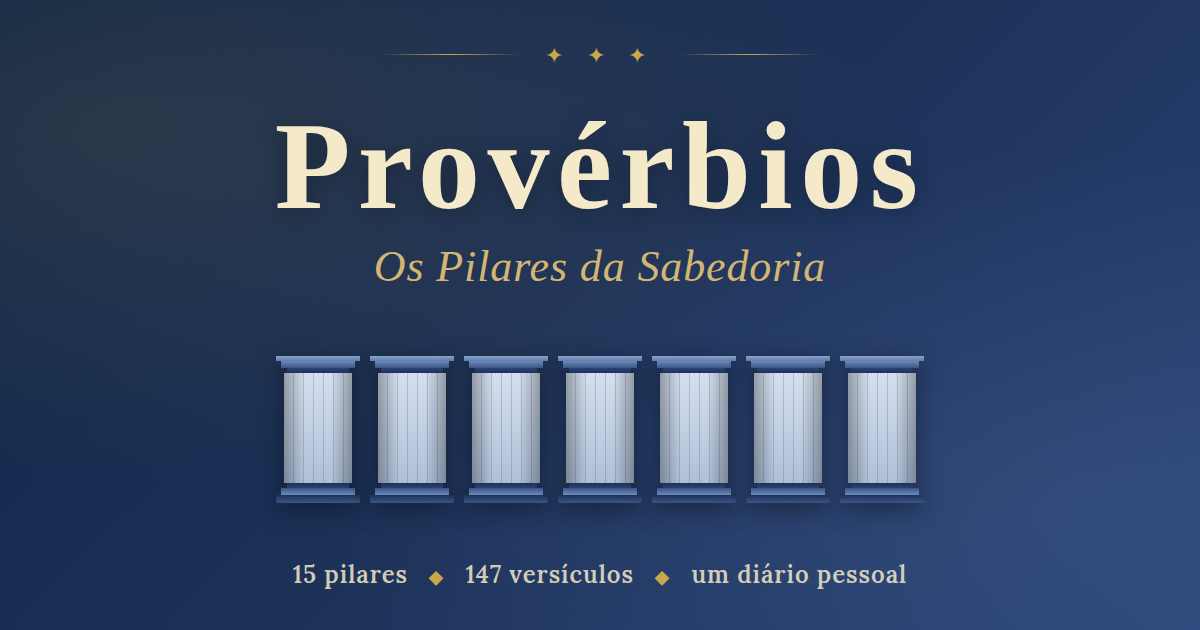
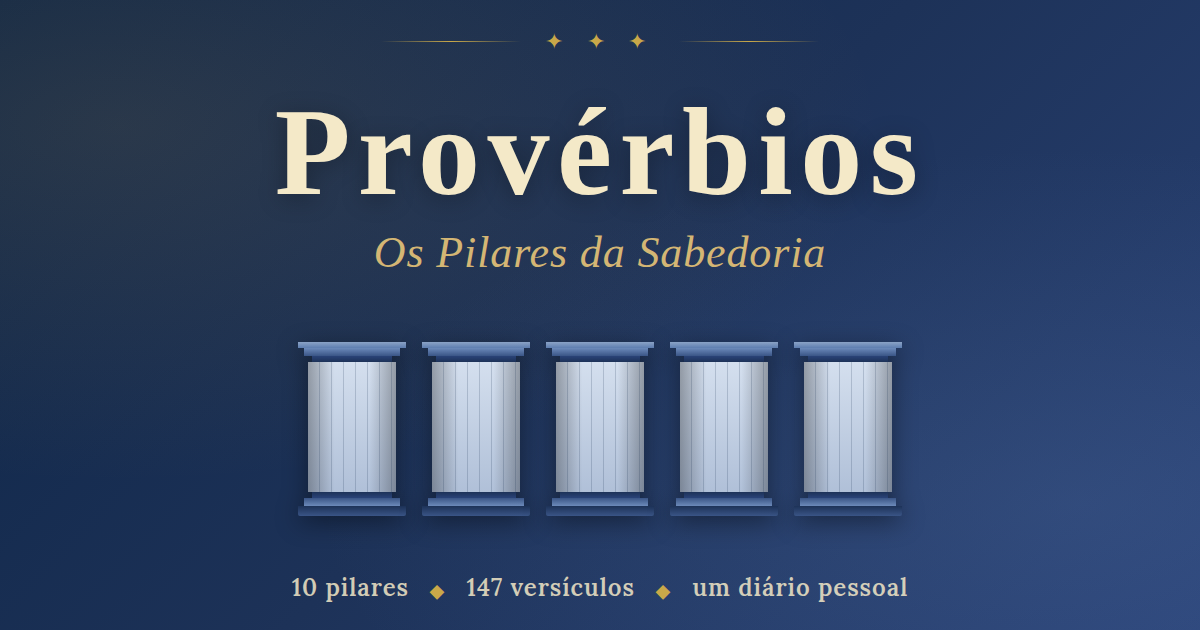
Add files via upload

diff --git a/index.html b/index.html
@@ -363,15 +363,12 @@
   /* ═══════════════ PILLARS GRID ═══════════════ */
   .pillars-grid {
     display: grid;
-    grid-template-columns: repeat(3, 1fr);
-    gap: 14px;
+    grid-template-columns: repeat(2, 1fr);
+    gap: 16px;
     padding: 6px 0;
   }
 
   @media (min-width: 540px) {
-    .pillars-grid { grid-template-columns: repeat(4, 1fr); gap: 16px; }
-  }
-  @media (min-width: 720px) {
     .pillars-grid { grid-template-columns: repeat(5, 1fr); gap: 18px; }
   }
 
@@ -984,7 +981,7 @@
 
   <section class="tab-content" id="tab-pillars">
     <div class="section-head">
-      <h2>Os Quinze Pilares</h2>
+      <h2>Os Dez Pilares</h2>
       <p>toque em uma coluna para ler os versículos</p>
     </div>
     <div class="pillars-grid" id="pillarsGrid"></div>
@@ -1046,7 +1043,7 @@
 
 <script>
 /* ════════════════════════════════════════════════
-   DATA — 15 PILLARS, EACH WITH VERSES + NT ECHO
+   DATA — 10 PILLARS (CONSOLIDATED), WITH VERSES + NT ECHO
    ════════════════════════════════════════════════ */
 const PILLARS = [
   {
@@ -1114,7 +1111,33 @@ const PILLARS = [
     ]
   },
   {
-    id: 'filhos', numeral: 'IV',
+    id: 'casamento', numeral: 'IV',
+    name: 'Casamento',
+    full: 'Casamento e Fidelidade',
+    subtitle: 'sobre o pacto conjugal e a pureza',
+    color: '#a64453',
+    verses: [
+      { ref: 'Pv 5:3-4', text: 'Porque os lábios da mulher estranha destilam favos de mel, e o seu paladar é mais macio do que o azeite. Porém o seu fim é amargoso como o absinto, agudo como a espada de dois fios.', nt: '1 Co 6:18' },
+      { ref: 'Pv 5:8',   text: 'Afasta dela o teu caminho, e não te chegues à porta da sua casa.', nt: '2 Tm 2:22' },
+      { ref: 'Pv 5:18-19', text: 'Seja bendito o teu manancial, e alegra-te com a mulher da tua mocidade. Como cerva amorosa e gazela graciosa, saciem-te os seus seios em todo o tempo; e pelo seu amor sê atraído perpetuamente.', nt: 'Hb 13:4' },
+      { ref: 'Pv 5:21',  text: 'Pois os caminhos do homem estão perante os olhos do Senhor, e ele pesa todas as suas veredas.', nt: 'Hb 4:13' },
+      { ref: 'Pv 6:25',  text: 'Não cobices no teu coração a sua formosura, nem te prendas com os seus olhos.', nt: 'Mt 5:27-28' },
+      { ref: 'Pv 6:27-28', text: 'Porventura tomará alguém fogo no seu seio, sem que suas vestes se queimem? Ou andará alguém sobre as brasas, sem que se queimem os seus pés?', nt: '1 Co 6:18' },
+      { ref: 'Pv 6:32',  text: 'O que adultera com uma mulher é falto de entendimento; destrói a sua alma, o que tal faz.', nt: '1 Co 6:9-10' },
+      { ref: 'Pv 7:25-27', text: 'Não se desvie para os seus caminhos o teu coração, e não andes perdido nas suas veredas. Porque a muitos feridos derrubou; e são muitíssimos os que por ela foram mortos. Caminho do inferno é a sua casa; o qual desce às câmaras da morte.', nt: '1 Pe 5:8' },
+      { ref: 'Pv 12:4',  text: 'A mulher virtuosa é a coroa do seu marido, mas a que o envergonha é como apodrecimento nos seus ossos.', nt: '1 Co 11:7' },
+      { ref: 'Pv 18:22', text: 'O que acha uma mulher acha o bem, e alcança a benevolência do Senhor.', nt: 'Ef 5:25' },
+      { ref: 'Pv 19:14', text: 'A casa e os bens são herança dos pais; mas do Senhor vem a esposa prudente.', nt: '1 Pe 3:1-2' },
+      { ref: 'Pv 21:9',  text: 'Melhor é morar num canto do eirado, do que com a mulher rixosa, e isso em casa em que mais companhia haja.' },
+      { ref: 'Pv 27:15-16', text: 'O gotejar contínuo no dia de grande chuva, e a mulher rixosa são semelhantes. Tentar detê-la é como deter o vento, ou agarrar azeite com a mão direita.' },
+      { ref: 'Pv 31:10', text: 'Mulher virtuosa, quem a achará? O seu valor muito excede ao de rubins.', nt: '1 Pe 3:3-4' },
+      { ref: 'Pv 31:11', text: 'O coração do seu marido está nela confiado; assim ele não necessitará de despojo.', nt: 'Tt 2:4-5' },
+      { ref: 'Pv 31:28', text: 'Levantam-se seus filhos e chamam-lhe bem-aventurada; seu marido também, e ele a louva.' },
+      { ref: 'Pv 31:30', text: 'Enganosa é a graça, e vã a formosura, mas a mulher que teme ao Senhor essa será louvada.', nt: '1 Pe 3:3-4' }
+    ]
+  },
+  {
+    id: 'filhos', numeral: 'V',
     name: 'Filhos',
     full: 'Filhos, Educação e Disciplina',
     subtitle: 'sobre criar e instruir os pequenos',
@@ -1133,38 +1156,24 @@ const PILLARS = [
     ]
   },
   {
-    id: 'casamento', numeral: 'V',
-    name: 'Casamento',
-    full: 'Casamento e Mulher Virtuosa',
-    subtitle: 'sobre o pacto entre marido e esposa',
-    color: '#a64453',
+    id: 'lingua', numeral: 'VI',
+    name: 'Língua',
+    full: 'A Língua e o Poder das Palavras',
+    subtitle: 'sobre falar, calar e escutar',
+    color: '#1f4d7a',
     verses: [
-      { ref: 'Pv 5:18-19', text: 'Seja bendito o teu manancial, e alegra-te com a mulher da tua mocidade. Como cerva amorosa e gazela graciosa, saciem-te os seus seios em todo o tempo; e pelo seu amor sê atraído perpetuamente.', nt: 'Hb 13:4' },
-      { ref: 'Pv 12:4',  text: 'A mulher virtuosa é a coroa do seu marido, mas a que o envergonha é como apodrecimento nos seus ossos.', nt: '1 Co 11:7' },
-      { ref: 'Pv 18:22', text: 'O que acha uma mulher acha o bem, e alcança a benevolência do Senhor.', nt: 'Ef 5:25' },
-      { ref: 'Pv 19:14', text: 'A casa e os bens são herança dos pais; mas do Senhor vem a esposa prudente.', nt: '1 Pe 3:1-2' },
-      { ref: 'Pv 21:9',  text: 'Melhor é morar num canto do eirado, do que com a mulher rixosa, e isso em casa em que mais companhia haja.' },
-      { ref: 'Pv 27:15-16', text: 'O gotejar contínuo no dia de grande chuva, e a mulher rixosa são semelhantes. Tentar detê-la é como deter o vento, ou agarrar azeite com a mão direita.' },
-      { ref: 'Pv 31:10', text: 'Mulher virtuosa, quem a achará? O seu valor muito excede ao de rubins.', nt: '1 Pe 3:3-4' },
-      { ref: 'Pv 31:11', text: 'O coração do seu marido está nela confiado; assim ele não necessitará de despojo.', nt: 'Tt 2:4-5' },
-      { ref: 'Pv 31:28', text: 'Levantam-se seus filhos e chamam-lhe bem-aventurada; seu marido também, e ele a louva.' },
-      { ref: 'Pv 31:30', text: 'Enganosa é a graça, e vã a formosura, mas a mulher que teme ao Senhor essa será louvada.', nt: '1 Pe 3:3-4' }
-    ]
-  },
-  {
-    id: 'pureza', numeral: 'VI',
-    name: 'Pureza',
-    full: 'Pureza Sexual',
-    subtitle: 'sobre evitar o adultério e a sedução',
-    color: '#5d2670',
-    verses: [
-      { ref: 'Pv 5:3-4', text: 'Porque os lábios da mulher estranha destilam favos de mel, e o seu paladar é mais macio do que o azeite. Porém o seu fim é amargoso como o absinto, agudo como a espada de dois fios.', nt: '1 Co 6:18' },
-      { ref: 'Pv 5:8',   text: 'Afasta dela o teu caminho, e não te chegues à porta da sua casa.', nt: '2 Tm 2:22' },
-      { ref: 'Pv 5:21',  text: 'Pois os caminhos do homem estão perante os olhos do Senhor, e ele pesa todas as suas veredas.', nt: 'Hb 4:13' },
-      { ref: 'Pv 6:25',  text: 'Não cobices no teu coração a sua formosura, nem te prendas com os seus olhos.', nt: 'Mt 5:27-28' },
-      { ref: 'Pv 6:27-28', text: 'Porventura tomará alguém fogo no seu seio, sem que suas vestes se queimem? Ou andará alguém sobre as brasas, sem que se queimem os seus pés?', nt: '1 Co 6:18' },
-      { ref: 'Pv 6:32',  text: 'O que adultera com uma mulher é falto de entendimento; destrói a sua alma, o que tal faz.', nt: '1 Co 6:9-10' },
-      { ref: 'Pv 7:25-27', text: 'Não se desvie para os seus caminhos o teu coração, e não andes perdido nas suas veredas. Porque a muitos feridos derrubou; e são muitíssimos os que por ela foram mortos. Caminho do inferno é a sua casa; o qual desce às câmaras da morte.', nt: '1 Pe 5:8' }
+      { ref: 'Pv 10:19', text: 'Na multidão de palavras não falta transgressão, mas o que modera os seus lábios é prudente.', nt: 'Tg 3:2' },
+      { ref: 'Pv 11:13', text: 'O que anda mexericando descobre o segredo, mas o fiel de espírito encobre o negócio.', nt: '1 Tm 5:13' },
+      { ref: 'Pv 12:18', text: 'Há alguns que falam palavras como pontas de espada, mas a língua dos sábios é saúde.', nt: 'Tg 3:5-6' },
+      { ref: 'Pv 15:1',  text: 'A resposta branda desvia o furor, mas a palavra dura suscita a ira.', nt: 'Tg 1:19-20' },
+      { ref: 'Pv 15:23', text: 'O homem alegra-se na resposta da sua boca, e a palavra a seu tempo, quão boa é!', nt: 'Cl 4:6' },
+      { ref: 'Pv 16:24', text: 'Palavras suaves são como favos de mel, doces para a alma, e saúde para os ossos.', nt: 'Ef 4:29' },
+      { ref: 'Pv 17:27', text: 'O que possui o conhecimento poupa as suas palavras, e o homem de entendimento é de precioso espírito.', nt: 'Tg 1:19' },
+      { ref: 'Pv 17:28', text: 'Até o tolo, quando se cala, será reputado por sábio; e o que cerrar os seus lábios por entendido.', nt: 'Tg 3:13' },
+      { ref: 'Pv 18:13', text: 'O que responde antes de ouvir, comete estultícia e vergonha.', nt: 'Tg 1:19' },
+      { ref: 'Pv 18:21', text: 'A morte e a vida estão no poder da língua; e aquele que a ama comerá do seu fruto.', nt: 'Mt 12:36-37' },
+      { ref: 'Pv 25:11', text: 'Como maçãs de ouro em salvas de prata, assim é a palavra dita a seu tempo.', nt: 'Cl 4:6' },
+      { ref: 'Pv 26:20', text: 'Sem lenha, o fogo se apagará; e não havendo intrigante, cessará a contenda.', nt: 'Tg 3:5-6' }
     ]
   },
   {
@@ -1186,71 +1195,56 @@ const PILLARS = [
     ]
   },
   {
-    id: 'lingua', numeral: 'VIII',
-    name: 'Língua',
-    full: 'A Língua e o Poder das Palavras',
-    subtitle: 'sobre falar, calar e escutar',
-    color: '#1f4d7a',
-    verses: [
-      { ref: 'Pv 10:19', text: 'Na multidão de palavras não falta transgressão, mas o que modera os seus lábios é prudente.', nt: 'Tg 3:2' },
-      { ref: 'Pv 11:13', text: 'O que anda mexericando descobre o segredo, mas o fiel de espírito encobre o negócio.', nt: '1 Tm 5:13' },
-      { ref: 'Pv 12:18', text: 'Há alguns que falam palavras como pontas de espada, mas a língua dos sábios é saúde.', nt: 'Tg 3:5-6' },
-      { ref: 'Pv 15:1',  text: 'A resposta branda desvia o furor, mas a palavra dura suscita a ira.', nt: 'Tg 1:19-20' },
-      { ref: 'Pv 15:23', text: 'O homem alegra-se na resposta da sua boca, e a palavra a seu tempo, quão boa é!', nt: 'Cl 4:6' },
-      { ref: 'Pv 16:24', text: 'Palavras suaves são como favos de mel, doces para a alma, e saúde para os ossos.', nt: 'Ef 4:29' },
-      { ref: 'Pv 17:27', text: 'O que possui o conhecimento poupa as suas palavras, e o homem de entendimento é de precioso espírito.', nt: 'Tg 1:19' },
-      { ref: 'Pv 17:28', text: 'Até o tolo, quando se cala, será reputado por sábio; e o que cerrar os seus lábios por entendido.', nt: 'Tg 3:13' },
-      { ref: 'Pv 18:13', text: 'O que responde antes de ouvir, comete estultícia e vergonha.', nt: 'Tg 1:19' },
-      { ref: 'Pv 18:21', text: 'A morte e a vida estão no poder da língua; e aquele que a ama comerá do seu fruto.', nt: 'Mt 12:36-37' },
-      { ref: 'Pv 25:11', text: 'Como maçãs de ouro em salvas de prata, assim é a palavra dita a seu tempo.', nt: 'Cl 4:6' },
-      { ref: 'Pv 26:20', text: 'Sem lenha, o fogo se apagará; e não havendo intrigante, cessará a contenda.', nt: 'Tg 3:5-6' }
-    ]
-  },
-  {
-    id: 'humildade', numeral: 'IX',
-    name: 'Humildade',
-    full: 'Orgulho e Humildade',
-    subtitle: 'sobre a queda do altivo e a honra do humilde',
-    color: '#7a3a1f',
-    verses: [
-      { ref: 'Pv 11:2',  text: 'Em vindo a soberba, virá também a afronta; mas com os humildes está a sabedoria.', nt: '1 Pe 5:5' },
-      { ref: 'Pv 13:10', text: 'Da soberba só provém a contenda, mas com os que se aconselham se acha a sabedoria.', nt: 'Fp 2:3' },
-      { ref: 'Pv 16:5',  text: 'Abominação é ao Senhor todo o altivo de coração; ainda que ele junte mão à mão, não ficará impune.', nt: 'Lc 18:14' },
-      { ref: 'Pv 16:18', text: 'A soberba precede a ruína, e a altivez do espírito precede a queda.', nt: '1 Co 10:12' },
-      { ref: 'Pv 16:19', text: 'Melhor é ser humilde de espírito com os mansos, do que repartir o despojo com os soberbos.', nt: 'Mt 5:3' },
-      { ref: 'Pv 18:12', text: 'Antes de ser quebrantado eleva-se o coração do homem; e diante da honra vai a humildade.', nt: 'Lc 14:11' },
-      { ref: 'Pv 22:4',  text: 'O galardão da humildade e o temor do Senhor são riquezas, honra e vida.', nt: '1 Pe 5:6' },
-      { ref: 'Pv 27:2',  text: 'Louve-te outro, e não a tua boca; o estranho, e não os teus lábios.', nt: '2 Co 10:18' },
-      { ref: 'Pv 29:23', text: 'A soberba do homem o abaterá, mas o humilde de espírito obterá honra.', nt: 'Tg 4:10' }
-    ]
-  },
-  {
-    id: 'ira', numeral: 'X',
-    name: 'Ira',
-    full: 'Ira e Autocontrole',
+    id: 'dominio', numeral: 'VIII',
+    name: 'Domínio Próprio',
+    full: 'Domínio Próprio — Orgulho, Ira e Excessos',
     subtitle: 'sobre dominar o próprio espírito',
     color: '#9c2a1f',
     verses: [
+      { ref: 'Pv 11:2',  text: 'Em vindo a soberba, virá também a afronta; mas com os humildes está a sabedoria.', nt: '1 Pe 5:5' },
+      { ref: 'Pv 13:10', text: 'Da soberba só provém a contenda, mas com os que se aconselham se acha a sabedoria.', nt: 'Fp 2:3' },
       { ref: 'Pv 14:29', text: 'O longânimo é grande em entendimento, mas o de espírito impaciente assinala a sua loucura.', nt: 'Tg 1:19-20' },
       { ref: 'Pv 15:18', text: 'O homem iracundo suscita contendas, mas o longânimo apazigua a luta.', nt: 'Ef 4:26-27' },
+      { ref: 'Pv 16:5',  text: 'Abominação é ao Senhor todo o altivo de coração; ainda que ele junte mão à mão, não ficará impune.', nt: 'Lc 18:14' },
+      { ref: 'Pv 16:18', text: 'A soberba precede a ruína, e a altivez do espírito precede a queda.', nt: '1 Co 10:12' },
+      { ref: 'Pv 16:19', text: 'Melhor é ser humilde de espírito com os mansos, do que repartir o despojo com os soberbos.', nt: 'Mt 5:3' },
       { ref: 'Pv 16:32', text: 'Melhor é o longânimo do que o valente, e o que domina o seu espírito do que o que toma uma cidade.', nt: 'Gl 5:22-23' },
+      { ref: 'Pv 18:12', text: 'Antes de ser quebrantado eleva-se o coração do homem; e diante da honra vai a humildade.', nt: 'Lc 14:11' },
       { ref: 'Pv 19:11', text: 'O entendimento do homem retém a sua ira, e sua glória é passar sobre a transgressão.', nt: 'Cl 3:13' },
+      { ref: 'Pv 20:1',  text: 'O vinho é escarnecedor, a bebida forte alvoroçadora; e todo aquele que neles errar nunca será sábio.', nt: 'Ef 5:18' },
+      { ref: 'Pv 22:4',  text: 'O galardão da humildade e o temor do Senhor são riquezas, honra e vida.', nt: '1 Pe 5:6' },
+      { ref: 'Pv 23:20-21', text: 'Não estejas entre os beberrões de vinho, nem entre os comilões de carne. Porque o beberrão e o comilão empobrecerão; e a sonolência faz trazer os vestidos rotos.', nt: 'Rm 13:13' },
+      { ref: 'Pv 23:29-30', text: 'Para quem são os ais? Para quem os pesares? Para quem as pelejas? Para quem as queixas? Para quem as feridas sem causa? E para quem os olhos vermelhos? Para os que se demoram perto do vinho.', nt: '1 Co 6:10' },
+      { ref: 'Pv 23:31-32', text: 'Não olhes para o vinho quando se mostra vermelho, quando resplandece no copo e se escoa suavemente. No seu fim morderá como a cobra, e como o basilisco picará.', nt: 'Lc 21:34' },
       { ref: 'Pv 25:28', text: 'Como a cidade derribada, sem muros, assim é o homem que não pode conter o seu espírito.', nt: 'Gl 5:22-23' },
+      { ref: 'Pv 27:2',  text: 'Louve-te outro, e não a tua boca; o estranho, e não os teus lábios.', nt: '2 Co 10:18' },
       { ref: 'Pv 29:11', text: 'Todo o seu espírito profere o tolo, mas o sábio o encobre e reprime.', nt: 'Tg 1:19-20' },
-      { ref: 'Pv 29:22', text: 'O homem iracundo levanta contendas; e o furioso multiplica as transgressões.', nt: 'Ef 4:31' }
+      { ref: 'Pv 29:22', text: 'O homem iracundo levanta contendas; e o furioso multiplica as transgressões.', nt: 'Ef 4:31' },
+      { ref: 'Pv 29:23', text: 'A soberba do homem o abaterá, mas o humilde de espírito obterá honra.', nt: 'Tg 4:10' },
+      { ref: 'Pv 31:4-5', text: 'Não é dos reis, ó Lemuel, não é dos reis beber vinho, nem dos príncipes desejar bebida forte. Para que não bebam, e se esqueçam do estatuto, e pervertam o juízo de todos os aflitos.', nt: '1 Tm 3:3' }
     ]
   },
   {
-    id: 'honestidade', numeral: 'XI',
-    name: 'Honestidade',
-    full: 'Honestidade, Integridade e Justiça',
-    subtitle: 'sobre andar em sinceridade',
-    color: '#2a6b3c',
+    id: 'integridade', numeral: 'IX',
+    name: 'Integridade',
+    full: 'Integridade e Justiça',
+    subtitle: 'sobre o caráter revelado em atos',
+    color: '#4a1f7a',
     verses: [
+      { ref: 'Pv 10:3',  text: 'O Senhor não deixa ter fome a alma do justo, mas a fazenda dos ímpios rejeitará.', nt: 'Mt 6:33' },
       { ref: 'Pv 10:9',  text: 'Quem anda em sinceridade anda seguro, mas o que perverte os seus caminhos será conhecido.', nt: '2 Co 1:12' },
+      { ref: 'Pv 10:24', text: 'O temor dos ímpios virá sobre ele, mas o desejo dos justos Deus lhe cumprirá.', nt: 'Mt 5:6' },
+      { ref: 'Pv 10:28', text: 'A esperança dos justos é alegria, mas a expectação dos ímpios perecerá.', nt: 'Rm 5:5' },
       { ref: 'Pv 11:1',  text: 'Balança enganosa é abominação para o Senhor, mas o peso justo é o seu prazer.', nt: 'Tg 5:1-4' },
       { ref: 'Pv 11:3',  text: 'A sinceridade dos sinceros os guiará, mas a perversidade dos pérfidos os destruirá.', nt: '2 Co 8:21' },
+      { ref: 'Pv 11:8',  text: 'O justo é libertado da angústia, e o ímpio vem em seu lugar.', nt: '2 Pe 2:9' },
+      { ref: 'Pv 11:30', text: 'O fruto do justo é árvore de vida, e o que ganha almas sábio é.', nt: 'Tg 5:20' },
+      { ref: 'Pv 12:7',  text: 'Transtornados serão os ímpios, e não serão mais, mas a casa dos justos permanecerá.', nt: 'Mt 7:24-27' },
       { ref: 'Pv 12:22', text: 'Os lábios mentirosos são abomináveis ao Senhor, mas os que agem fielmente são o seu deleite.', nt: 'Ap 21:8' },
+      { ref: 'Pv 13:9',  text: 'A luz dos justos alegra, mas a lâmpada dos ímpios se apagará.', nt: 'Mt 5:14-16' },
+      { ref: 'Pv 14:11', text: 'A casa dos ímpios se desfará, mas a tenda dos retos florescerá.', nt: 'Mt 7:24-27' },
+      { ref: 'Pv 14:34', text: 'A justiça exalta as nações, mas o pecado é o opróbrio dos povos.', nt: 'Mt 5:13' },
+      { ref: 'Pv 15:29', text: 'Longe está o Senhor dos ímpios, mas escuta a oração dos justos.', nt: 'Tg 5:16' },
       { ref: 'Pv 16:11', text: 'O peso e a balança justos são do Senhor; obra sua são todos os pesos da bolsa.', nt: 'Lc 16:10' },
       { ref: 'Pv 19:1',  text: 'Melhor é o pobre que anda na sua sinceridade do que o perverso de lábios e tolo.', nt: '1 Tm 6:6-8' },
       { ref: 'Pv 20:7',  text: 'O justo anda na sua sinceridade; bem-aventurados serão os seus filhos depois dele.', nt: '1 Tm 3:4' },
@@ -1260,75 +1254,33 @@ const PILLARS = [
     ]
   },
   {
-    id: 'lideranca', numeral: 'XII',
-    name: 'Liderança',
-    full: 'Reis, Governo e Liderança',
-    subtitle: 'sobre quem governa sobre outros',
-    color: '#3a1f7a',
-    verses: [
-      { ref: 'Pv 8:15-16', text: 'Por mim reinam os reis e os príncipes ordenam justiça. Por mim governam os príncipes e os nobres, sim, todos os juízes da terra.', nt: 'Rm 13:1-2' },
-      { ref: 'Pv 14:28', text: 'Na multidão do povo está a magnificência do rei, mas na falta do povo a perturbação do príncipe.' },
-      { ref: 'Pv 16:10', text: 'Nos lábios do rei se acha a sentença divina; em juízo não prevaricará a sua boca.', nt: 'Rm 13:1' },
-      { ref: 'Pv 16:12', text: 'Abominação é para os reis cometerem impiedade, porque com justiça se estabelece o trono.', nt: '1 Tm 2:1-2' },
-      { ref: 'Pv 20:28', text: 'Misericórdia e verdade guardam ao rei, e com piedade sustém ele o seu trono.', nt: '1 Pe 2:13-14' },
-      { ref: 'Pv 21:1',  text: 'Como ribeiros de águas, assim é o coração do rei na mão do Senhor; ele o inclina a todo o querer.', nt: 'Rm 13:1' },
-      { ref: 'Pv 25:2',  text: 'A glória de Deus é encobrir o negócio; mas a glória dos reis é esquadrinhá-lo.' },
-      { ref: 'Pv 29:2',  text: 'Quando os justos se engrandecem, o povo se alegra, mas quando o ímpio domina, o povo suspira.', nt: 'Mt 20:25-28' },
-      { ref: 'Pv 29:4',  text: 'O rei pela justiça estabelece a terra, mas o amigo de impostos a transtorna.', nt: '1 Tm 2:1-2' },
-      { ref: 'Pv 29:14', text: 'O rei, que julga os pobres conforme a verdade, firmará o seu trono para sempre.', nt: 'Tg 2:1-9' }
-    ]
-  },
-  {
-    id: 'bebida', numeral: 'XIII',
-    name: 'Bebida',
-    full: 'Bebida e Moderação',
-    subtitle: 'sobre o vinho e seus excessos',
-    color: '#6b1f3a',
-    verses: [
-      { ref: 'Pv 20:1',  text: 'O vinho é escarnecedor, a bebida forte alvoroçadora; e todo aquele que neles errar nunca será sábio.', nt: 'Ef 5:18' },
-      { ref: 'Pv 23:20-21', text: 'Não estejas entre os beberrões de vinho, nem entre os comilões de carne. Porque o beberrão e o comilão empobrecerão; e a sonolência faz trazer os vestidos rotos.', nt: 'Rm 13:13' },
-      { ref: 'Pv 23:29-30', text: 'Para quem são os ais? Para quem os pesares? Para quem as pelejas? Para quem as queixas? Para quem as feridas sem causa? E para quem os olhos vermelhos? Para os que se demoram perto do vinho.', nt: '1 Co 6:10' },
-      { ref: 'Pv 23:31-32', text: 'Não olhes para o vinho quando se mostra vermelho, quando resplandece no copo e se escoa suavemente. No seu fim morderá como a cobra, e como o basilisco picará.', nt: 'Lc 21:34' },
-      { ref: 'Pv 31:4-5', text: 'Não é dos reis, ó Lemuel, não é dos reis beber vinho, nem dos príncipes desejar bebida forte. Para que não bebam, e se esqueçam do estatuto, e pervertam o juízo de todos os aflitos.', nt: '1 Tm 3:3' }
-    ]
-  },
-  {
-    id: 'planejamento', numeral: 'XIV',
-    name: 'Planejamento',
-    full: 'Planejamento, Prudência e Conselho',
-    subtitle: 'sobre antecipar, calcular e ouvir',
+    id: 'prudencia', numeral: 'X',
+    name: 'Prudência',
+    full: 'Prudência e Liderança',
+    subtitle: 'sobre decidir, governar e antecipar',
     color: '#1f5d7a',
     verses: [
+      { ref: 'Pv 8:15-16', text: 'Por mim reinam os reis e os príncipes ordenam justiça. Por mim governam os príncipes e os nobres, sim, todos os juízes da terra.', nt: 'Rm 13:1-2' },
       { ref: 'Pv 13:16', text: 'Todo o prudente procede com conhecimento, mas o tolo espraia a sua loucura.', nt: 'Lc 14:28-30' },
       { ref: 'Pv 14:15', text: 'O simples dá crédito a cada palavra, mas o prudente atenta para os seus passos.', nt: '1 Ts 5:21' },
+      { ref: 'Pv 14:28', text: 'Na multidão do povo está a magnificência do rei, mas na falta do povo a perturbação do príncipe.' },
       { ref: 'Pv 15:22', text: 'Sem conselho os projetos se dissipam, mas com a multidão de conselheiros se confirmam.', nt: 'Lc 14:31' },
       { ref: 'Pv 16:3',  text: 'Confia ao Senhor as tuas obras, e teus pensamentos serão estabelecidos.', nt: '1 Pe 5:7' },
       { ref: 'Pv 16:9',  text: 'O coração do homem considera o seu caminho, mas o Senhor lhe dirige os passos.', nt: 'Tg 4:13-15' },
+      { ref: 'Pv 16:10', text: 'Nos lábios do rei se acha a sentença divina; em juízo não prevaricará a sua boca.', nt: 'Rm 13:1' },
+      { ref: 'Pv 16:12', text: 'Abominação é para os reis cometerem impiedade, porque com justiça se estabelece o trono.', nt: '1 Tm 2:1-2' },
       { ref: 'Pv 19:21', text: 'Muitos propósitos há no coração do homem, porém o conselho do Senhor permanecerá.', nt: 'At 5:38-39' },
       { ref: 'Pv 20:18', text: 'Cada propósito se confirma com conselho; faze, pois, a guerra com prudentes conselhos.', nt: 'Lc 14:31' },
+      { ref: 'Pv 20:28', text: 'Misericórdia e verdade guardam ao rei, e com piedade sustém ele o seu trono.', nt: '1 Pe 2:13-14' },
+      { ref: 'Pv 21:1',  text: 'Como ribeiros de águas, assim é o coração do rei na mão do Senhor; ele o inclina a todo o querer.', nt: 'Rm 13:1' },
       { ref: 'Pv 21:5',  text: 'Os pensamentos do diligente tendem só à abundância, porém os de todo apressado tendem só à pobreza.', nt: 'Tg 1:5' },
       { ref: 'Pv 22:3',  text: 'O prudente vê o mal e esconde-se, mas os simples passam e sofrem a pena.', nt: 'Mt 7:24-27' },
       { ref: 'Pv 24:27', text: 'Prepara fora a tua obra, e aparelha-a no campo, e depois edifica a tua casa.', nt: 'Lc 14:28' },
-      { ref: 'Pv 27:1',  text: 'Não te glories do dia de amanhã, porque não sabes o que produzirá o dia.', nt: 'Tg 4:13-14' }
-    ]
-  },
-  {
-    id: 'justo', numeral: 'XV',
-    name: 'Justiça',
-    full: 'O Justo e o Ímpio',
-    subtitle: 'sobre dois caminhos e dois destinos',
-    color: '#4a1f7a',
-    verses: [
-      { ref: 'Pv 10:3',  text: 'O Senhor não deixa ter fome a alma do justo, mas a fazenda dos ímpios rejeitará.', nt: 'Mt 6:33' },
-      { ref: 'Pv 10:24', text: 'O temor dos ímpios virá sobre ele, mas o desejo dos justos Deus lhe cumprirá.', nt: 'Mt 5:6' },
-      { ref: 'Pv 10:28', text: 'A esperança dos justos é alegria, mas a expectação dos ímpios perecerá.', nt: 'Rm 5:5' },
-      { ref: 'Pv 11:8',  text: 'O justo é libertado da angústia, e o ímpio vem em seu lugar.', nt: '2 Pe 2:9' },
-      { ref: 'Pv 11:30', text: 'O fruto do justo é árvore de vida, e o que ganha almas sábio é.', nt: 'Tg 5:20' },
-      { ref: 'Pv 12:7',  text: 'Transtornados serão os ímpios, e não serão mais, mas a casa dos justos permanecerá.', nt: 'Mt 7:24-27' },
-      { ref: 'Pv 13:9',  text: 'A luz dos justos alegra, mas a lâmpada dos ímpios se apagará.', nt: 'Mt 5:14-16' },
-      { ref: 'Pv 14:11', text: 'A casa dos ímpios se desfará, mas a tenda dos retos florescerá.', nt: 'Mt 7:24-27' },
-      { ref: 'Pv 14:34', text: 'A justiça exalta as nações, mas o pecado é o opróbrio dos povos.', nt: 'Mt 5:13' },
-      { ref: 'Pv 15:29', text: 'Longe está o Senhor dos ímpios, mas escuta a oração dos justos.', nt: 'Tg 5:16' }
+      { ref: 'Pv 25:2',  text: 'A glória de Deus é encobrir o negócio; mas a glória dos reis é esquadrinhá-lo.' },
+      { ref: 'Pv 27:1',  text: 'Não te glories do dia de amanhã, porque não sabes o que produzirá o dia.', nt: 'Tg 4:13-14' },
+      { ref: 'Pv 29:2',  text: 'Quando os justos se engrandecem, o povo se alegra, mas quando o ímpio domina, o povo suspira.', nt: 'Mt 20:25-28' },
+      { ref: 'Pv 29:4',  text: 'O rei pela justiça estabelece a terra, mas o amigo de impostos a transtorna.', nt: '1 Tm 2:1-2' },
+      { ref: 'Pv 29:14', text: 'O rei, que julga os pobres conforme a verdade, firmará o seu trono para sempre.', nt: 'Tg 2:1-9' }
     ]
   }
 ];

diff --git a/README.md b/README.md
@@ -1,6 +1,6 @@
 # Provérbios — Os Pilares da Sabedoria
 
-> Um devocional digital que organiza o livro bíblico de Provérbios em 15 blocos temáticos ("pilares"), com versículo diário, referências cruzadas com o Novo Testamento e um diário pessoal de reflexões.
+> Um devocional digital que organiza o livro bíblico de Provérbios em 10 blocos temáticos ("pilares"), com versículo diário, referências cruzadas com o Novo Testamento e um diário pessoal de reflexões.
 
 **🔗 Acesse:** https://rafaelevangelista1984.github.io/Proverbios/
 
@@ -8,25 +8,20 @@
 
 ---
 
-## Os 15 Pilares
+## Os 10 Pilares
 
-| | Pilar | Verses |
+| | Pilar | Versículos |
 |---|---|---|
 | I | Temor do Senhor e Sabedoria | 12 |
 | II | Trabalho e Diligência | 13 |
 | III | Dinheiro, Riquezas e Generosidade | 12 |
-| IV | Filhos, Educação e Disciplina | 10 |
-| V | Casamento e Mulher Virtuosa | 10 |
-| VI | Pureza Sexual | 7 |
+| IV | Casamento e Fidelidade | 17 |
+| V | Filhos, Educação e Disciplina | 10 |
+| VI | A Língua e o Poder das Palavras | 12 |
 | VII | Amizades e Companhias | 9 |
-| VIII | A Língua e o Poder das Palavras | 12 |
-| IX | Orgulho e Humildade | 9 |
-| X | Ira e Autocontrole | 7 |
-| XI | Honestidade, Integridade e Justiça | 10 |
-| XII | Reis, Governo e Liderança | 10 |
-| XIII | Bebida e Moderação | 5 |
-| XIV | Planejamento, Prudência e Conselho | 11 |
-| XV | O Justo e o Ímpio | 10 |
+| VIII | Domínio Próprio | 21 |
+| IX | Integridade e Justiça | 20 |
+| X | Prudência e Liderança | 21 |
 
 Total: **147 versículos** organizados, **141 referências cruzadas** com o Novo Testamento.
 
@@ -40,6 +35,7 @@ Total: **147 versículos** organizados, **141 referências cruzadas** com o Novo
 - ✦ **Links para a Bíblia Online** — leia o capítulo inteiro com um toque
 - ✦ **Diário pessoal** — anote suas reflexões em cada versículo
 - ✦ **Exportação em JSON** — backup das suas anotações
+- ✦ **Lembrete de backup** — alerta automático quando faz tempo desde o último export
 - ✦ **Responsivo** — funciona bem em celular, tablet e desktop
 - ✦ **Offline-ready** — após o primeiro carregamento, funciona sem internet
 
